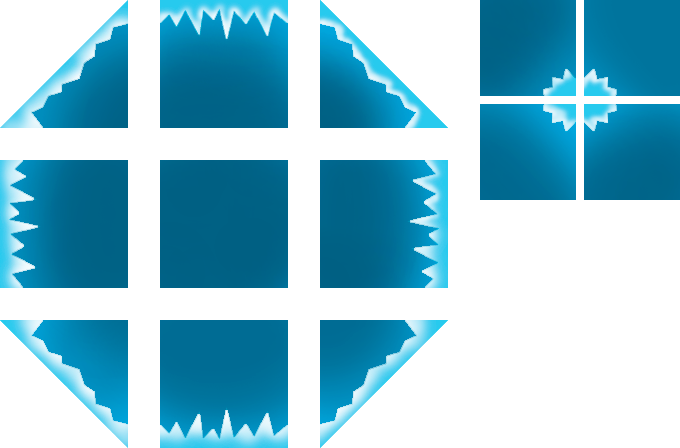
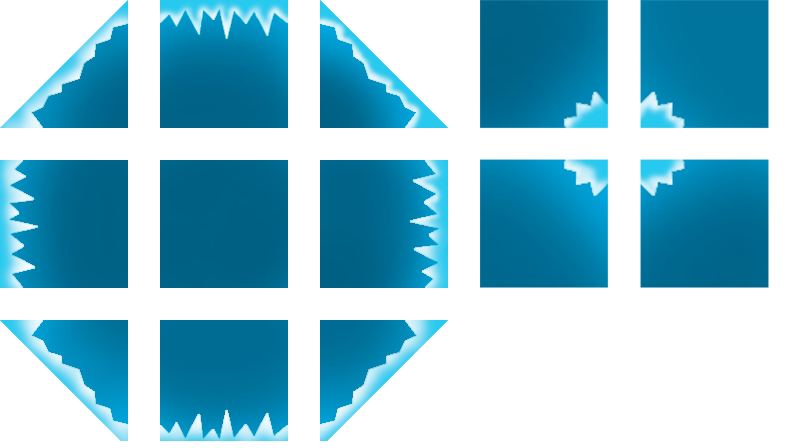
ecran qui est trop bas

diff --git a/Glace.tsx b/Glace.tsx
@@ -1,4 +1,4 @@
 <?xml version="1.0" encoding="UTF-8"?>
-<tileset version="1.5" tiledversion="1.7.2" name="Glace" tilewidth="16" tileheight="16" tilecount="1176" columns="42">
- <image source="glace.png" trans="000000" width="680" height="448"/>
+<tileset version="1.5" tiledversion="1.7.2" name="glace" tilewidth="128" tileheight="128" spacing="32" tilecount="15" columns="5">
+ <image source="glace.png" trans="003039" width="800" height="448"/>
 </tileset>

diff --git a/src/game.py b/src/game.py
@@ -15,7 +15,8 @@ class Game:
         map_data = pyscroll.data.TiledMapData(tmx_data)
         map_layer = pyscroll.orthographic.BufferedRenderer(map_data,self.screen.get_size())
 
-        self.player = Pinguin()
+        player_position = tmx_data.get_object_by_name("Pinguin")
+        self.player = Pinguin(player_position.x,player_position.y)
 
         self.group = pyscroll.PyscrollGroup(map_layer=map_layer, default_layer=1)
         self.group.add(self.player)
@@ -27,6 +28,8 @@ class Game:
 
         while running:
 
+            self.group.update()
+            self.group.center(self.player.rect.center)
             self.group.draw(self.screen)
             pygame.display.flip()
 

diff --git a/src/pinguin.py b/src/pinguin.py
@@ -2,11 +2,16 @@ import pygame
 
 class Pinguin(pygame.sprite.Sprite):
 
-    def __init__(self):
+    def __init__(self,x,y):
         super().__init__()
         self.sprite_sheet = pygame.image.load('../pingouin1.png')
         self.image =self.get_image(0,0)
+        self.image.set_colorkey([0,0,0])
         self.rect = self.image.get_rect()
+        self.position = [x,y]
+
+    def update(self):
+        self.rect.topleft = self.position
 
     def get_image(self, x, y):
         image = pygame.Surface([32,32])
